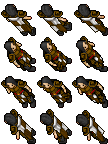
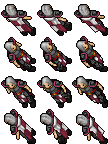
Importa paletas oficiais das Apparitions Soul War

diff --git a/tibia-idle/game/js/render.js b/tibia-idle/game/js/render.js
@@ -69,19 +69,6 @@ const MONSTER_TINT = {
   "squid-warden": "sepia(1) saturate(10) hue-rotate(160deg) brightness(.72) contrast(1.3)",
   // Apparitions Soul War: cores da vocação, preservando preto/sombras.
 };
-const APPARITION_OUTFIT = {
-  "knight-s-apparition": { id:"knight-m", voc:"knight", colors:[95,116,116,95] },
-  "paladin-s-apparition": { id:"hunter-m", voc:"paladin", colors:[78,68,58,76] },
-  "sorcerer-s-apparition": { id:"mage-m", voc:"sorcerer", colors:[86,50,50,86] },
-  "druid-s-apparition": { id:"summoner-m", voc:"druid", colors:[79,78,78,76] },
-  "monk-s-apparition": { id:"monk-m", voc:"monk", colors:[94,88,88,94] },
-};
-function apparitionSprite(slug, dir, frame) {
-  const a = APPARITION_OUTFIT[slug];
-  if (!a || typeof AppearanceRenderer === "undefined") return null;
-  return AppearanceRenderer.forPlayer({ voc:a.voc, sex:"male", outfit:{ appearance:a.id, colors:a.colors, addons:0 } }, dir, frame);
-}
-
 function drawMonsterSprite(ctx, img, x, y, w, h, slug) {
   if (slug === "rage-squid") {
     // Referência TibiaWiki: tentáculos/corpo amarelos e cérebro vermelho.
@@ -1452,8 +1439,7 @@ Renderer.prototype.draw = function (combat, player, dt) {
       const passo = m.moving ? (m.frame || 1) : monsterIdleFrame(m.slug, Date.now());
       const anim = passo ? Sprites.mobWalk(m.slug, m.dir || "w", passo) : null;
       // se o frame não existir, cai na pose base em vez de sumir.
-      const appImg = apparitionSprite(m.slug, m.dir || "w", passo);
-      const img = spriteReady(appImg) ? appImg : (spriteReady(anim) ? anim : Sprites.mob(m.slug, m.dir || "w"));
+      const img = spriteReady(anim) ? anim : Sprites.mob(m.slug, m.dir || "w");
       const mx = m.x * W;
       // sem oscilacao senoidal: no Tibia a criatura parada fica imovel no
       // SQM. O balanco daqui somava ao pedalar dos frames e dava a impressao

diff --git a/tibia-idle/tools/colorize_monsters_canary.py b/tibia-idle/tools/colorize_monsters_canary.py
@@ -123,11 +123,11 @@ CANARY_COLORS = {
     "hunter":        (113, 114, 39, 115),
     "wild-warrior":  (113, 39, 113, 115),
     # Soul War: appearances que usam o mesmo sistema de máscara/paleta.
-    "knight-s-apparition": (95, 116, 116, 95),
-    "paladin-s-apparition": (78, 68, 58, 76),
-    "sorcerer-s-apparition": (86, 50, 50, 86),
-    "druid-s-apparition": (79, 78, 78, 76),
-    "monk-s-apparition": (94, 88, 88, 94),
+    "knight-s-apparition": (19, 76, 74, 114),
+    "paladin-s-apparition": (57, 42, 114, 114),
+    "sorcerer-s-apparition": (95, 114, 52, 76),
+    "druid-s-apparition": (114, 48, 114, 95),
+    "monk-s-apparition": (114, 48, 114, 95),
     # Rage/Squid compartilham a appearance base; as cores finais recebem
     # o acabamento específico no renderer (cérebro/partes por região).
     "rage-squid": (95, 78, 78, 78),
